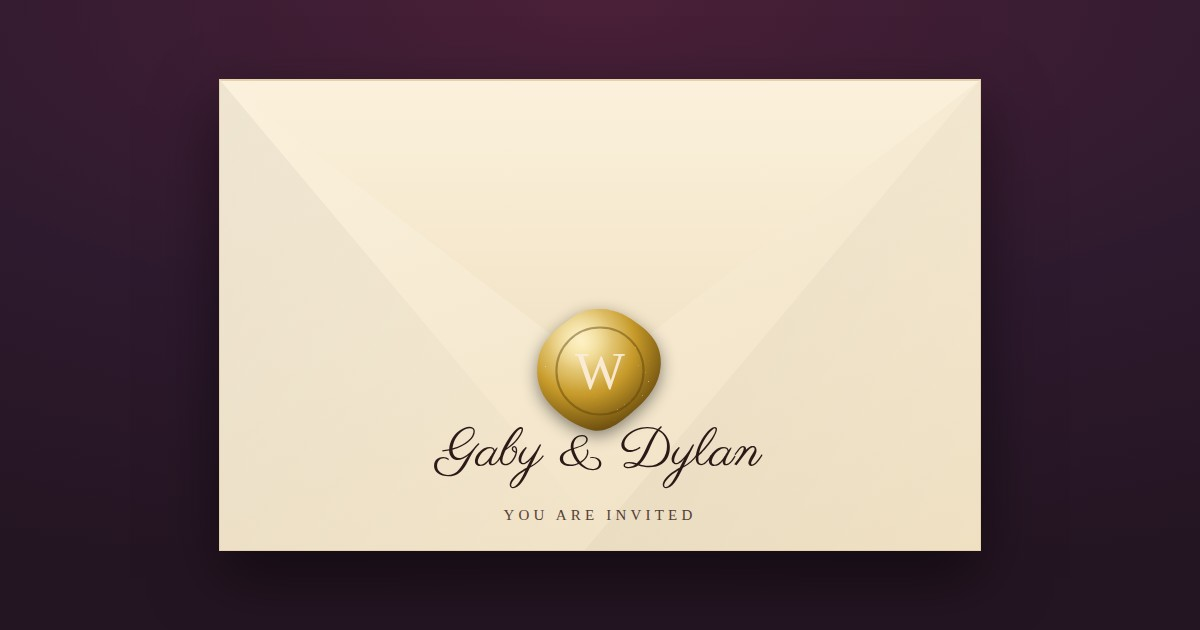
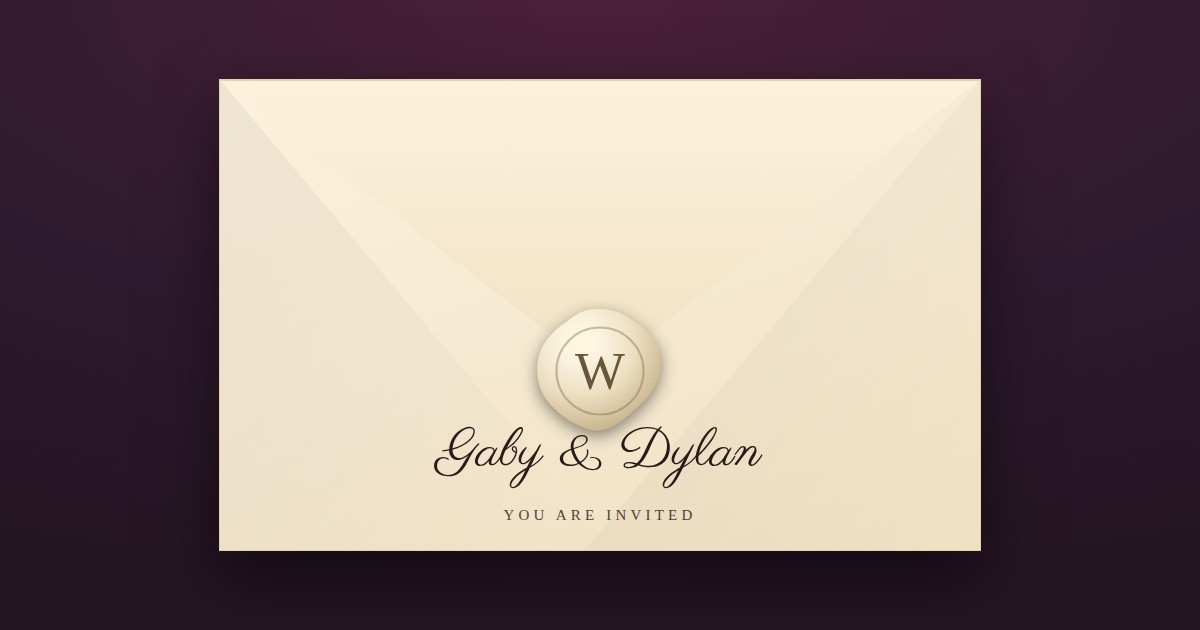
Ivory wax for the maids of honour, and a share card for every link
The maids of honour had the best man's gold. They get ivory now — near-white
wax, which needs handling the others don't: pressed onto a vanilla envelope
there is almost nothing to separate the two, so the rim carries a warm shadow
and the monogram is inked dark (#5C4A2E) instead of cream. The W is a
parameter now rather than a constant, since it is the first seal light enough
to need it.

The share cards were only rendered for the thirteen special invitations, and
found strictly by password. Both halves of that were wrong on the live site:

- Every invitation has a card now, not just the special ones.
- A password minted on the live site is not in the repo, so no file is named
  after it — /invite?c=2608 had nothing to point at. Cards are found by
  password first and by household name second, through a manifest committed
  alongside them, so a link works whether or not its password predates the
  render.
- Anything still unmatched falls back to an unaddressed envelope, so a preview
  always has a picture rather than silently dropping it.

Claude-Session: https://claude.ai/code/session_01CotQTYgamH4Wz8TbUkwj6a

Changed region(s): [[0.4317, 0.4825, 0.555, 0.6937]]

diff --git a/server.js b/server.js
@@ -156,6 +156,26 @@ const serveStatic = (req, res, filePath) => {
   fs.createReadStream(resolved).pipe(res);
 };
 
+// The share image for an invitation. By code when a card was rendered for it;
+// otherwise by household name through the manifest, because the live list
+// keeps passwords handed out before the render, so a real invitation can
+// carry a code no file was ever named after. The unaddressed envelope is the
+// last resort — a preview should always have a picture.
+const shareCard = (guest) => {
+  const dir = path.join(ASSETS_DIR, "share");
+  if (fs.existsSync(path.join(dir, `${guest.code}.jpg`)))
+    return { file: `${guest.code}.jpg`, addressed: true };
+  try {
+    const manifest = JSON.parse(fs.readFileSync(path.join(dir, "manifest.json"), "utf8"));
+    for (const [name, file] of Object.entries(manifest)) {
+      if (norm(name) === norm(guest.name) && fs.existsSync(path.join(dir, file)))
+        return { file, addressed: true };
+    }
+  } catch { /* no manifest shipped — fall through to the default */ }
+  if (fs.existsSync(path.join(dir, "default.jpg"))) return { file: "default.jpg", addressed: false };
+  return null;
+};
+
 const SMALL_BODY = 10_000;          // an unlock or an RSVP
 const UPLOAD_BODY = 12_000_000;     // a spreadsheet, base64-encoded
 const readBody = (req, max = SMALL_BODY) => new Promise((resolve, reject) => {
@@ -485,7 +505,7 @@ var SCOPE = { both: "Ceremony &amp; reception", ceremony: "Ceremony only", recep
 // seal and their own words.
 var ROLES = {
   "best-man":      { label: "Best man",        wax: "Gold",   swatch: "#C79A2A" },
-  "maid-of-honor": { label: "Maid of honour",  wax: "Gold",   swatch: "#C79A2A" },
+  "maid-of-honor": { label: "Maid of honour",  wax: "Ivory",  swatch: "#EDDFC2" },
   "groom-mother":  { label: "Groom's mother",  wax: "Blue",   swatch: "#33608F" },
   "bride-parents": { label: "Bride's parents", wax: "Blue",   swatch: "#33608F" },
   "groom-sister":  { label: "Groom's sisters", wax: "Ivy",    swatch: "#2A6A4A" },
@@ -863,7 +883,6 @@ return http.createServer(async (req, res) => {
       // the picture has to be a real file, not the page's canvas.
       const guest = byCode.get(norm(url.searchParams.get("c")));
       if (guest) {
-        const img = path.join(ASSETS_DIR, "share", `${guest.code}.jpg`);
         const proto = String(req.headers["x-forwarded-proto"] || "https").split(",")[0];
         const origin = `${proto}://${req.headers.host}`;
         const title = `An invitation for ${guest.name}`;
@@ -874,13 +893,16 @@ return http.createServer(async (req, res) => {
           `<meta property="og:url" content="${escapeAttr(origin + "/invite?c=" + guest.code)}">`,
           `<meta name="twitter:card" content="summary_large_image">`,
         ];
-        if (fs.existsSync(img)) {
+        const card = shareCard(guest);
+        if (card) {
           tags.push(
-            `<meta property="og:image" content="${escapeAttr(origin)}/assets/share/${guest.code}.jpg">`,
+            `<meta property="og:image" content="${escapeAttr(origin)}/assets/share/${card.file}">`,
             `<meta property="og:image:type" content="image/jpeg">`,
             `<meta property="og:image:width" content="1200">`,
             `<meta property="og:image:height" content="630">`,
-            `<meta property="og:image:alt" content="${escapeAttr("A sealed envelope addressed to " + guest.name)}">`);
+            `<meta property="og:image:alt" content="${escapeAttr(card.addressed
+              ? "A sealed envelope addressed to " + guest.name
+              : "A sealed wedding invitation envelope")}">`);
         }
         html = html.replace("<!--share-->", tags.join("\n"));
       }

diff --git a/site/invite.html b/site/invite.html
@@ -375,6 +375,15 @@
           <stop offset="74%"  stop-color="#96701A"/>
           <stop offset="100%" stop-color="#5F430A"/>
         </radialGradient>
+        <!-- Ivory, for the maids of honour. Near-white wax pressed onto a vanilla
+             envelope has almost nothing to separate it, so the rim carries a warm
+             shadow and the monogram is inked dark instead of light. -->
+        <radialGradient id="ivory" cx="36%" cy="28%" r="78%">
+          <stop offset="0%"   stop-color="#FFFDF7"/>
+          <stop offset="30%"  stop-color="#FAF2DF"/>
+          <stop offset="62%"  stop-color="#EDDFC2"/>
+          <stop offset="100%" stop-color="#C3AE86"/>
+        </radialGradient>
         <!-- The sheen across the top-left, where a pressed seal catches light. -->
         <radialGradient id="sheen" cx="34%" cy="24%" r="42%">
           <stop offset="0%"   stop-color="#FFF6D4" stop-opacity=".72"/>
@@ -420,7 +429,7 @@
         <rect x="0" y="0" width="100" height="100" filter="url(#mica)" opacity=".55"/>
       </g>
       <circle cx="50" cy="50" r="33" fill="none" stroke="#5B1409" stroke-opacity=".45" stroke-width="1.6" id="seal-ring"/>
-      <text x="50" y="50" text-anchor="middle" dominant-baseline="central"
+      <text x="50" y="50" text-anchor="middle" dominant-baseline="central" id="seal-mono"
             font-family="Didot, 'Bodoni MT', Georgia, serif" font-size="40" fill="#FBEDDC" fill-opacity=".93">W</text>
     </svg>
   </button>
@@ -492,10 +501,11 @@
         }
       },
       // Sharon's side. The three maids of honour are her sisters, which is why
-      // theirs reads the way it does; gold seal, like the best man's.
+      // theirs reads the way it does. Ivory wax — near-white on a vanilla
+      // envelope, so the monogram is inked dark instead of light.
       "maid-of-honor": {
-        seal: "url(#gold)", ring: "#5A3E09", tone: "gold",
-        shades: ["#E0B44A", "#B98A22", "#7A5410"],
+        seal: "url(#ivory)", ring: "#8A7350", mono: "#5C4A2E", tone: "gold",
+        shades: ["#FFFDF7", "#EDDFC2", "#C3AE86"],
         ask: function (n) {
           return n + " — you have been beside me my whole life, and I'm not " +
             "walking towards him without you. Will you be one of my maids of honour?";
@@ -544,11 +554,14 @@
     var role = ROLES[g.role];
     var wax = document.getElementById("seal-wax");
     var ring = document.getElementById("seal-ring");
+    var mono = document.getElementById("seal-mono");
     var cardEl = document.querySelector(".card");
     cardEl.classList.remove("role-gold", "role-silver", "role-rose", "role-blue", "role-ivy");
     if (role) {
       if (wax) wax.setAttribute("fill", role.seal);
       if (ring) ring.setAttribute("stroke", role.ring);
+      // Light wax needs a dark W; every other seal keeps the cream one.
+      if (mono) mono.setAttribute("fill", role.mono || "#FBEDDC");
       // Address them by the first name on the invitation.
       // Words written for this guest win over the role's default. *stars* mark
       // emphasis; everything else is escaped, so the text stays plain data.
@@ -568,6 +581,7 @@
       waxShades = WAX_RED;
       if (wax) wax.setAttribute("fill", "url(#wax)");
       if (ring) ring.setAttribute("stroke", "#5B1409");
+      if (mono) mono.setAttribute("fill", "#FBEDDC");
       ask.hidden = true;
       var plain = document.getElementById("seal-shine");
       if (plain) plain.setAttribute("hidden", "");
